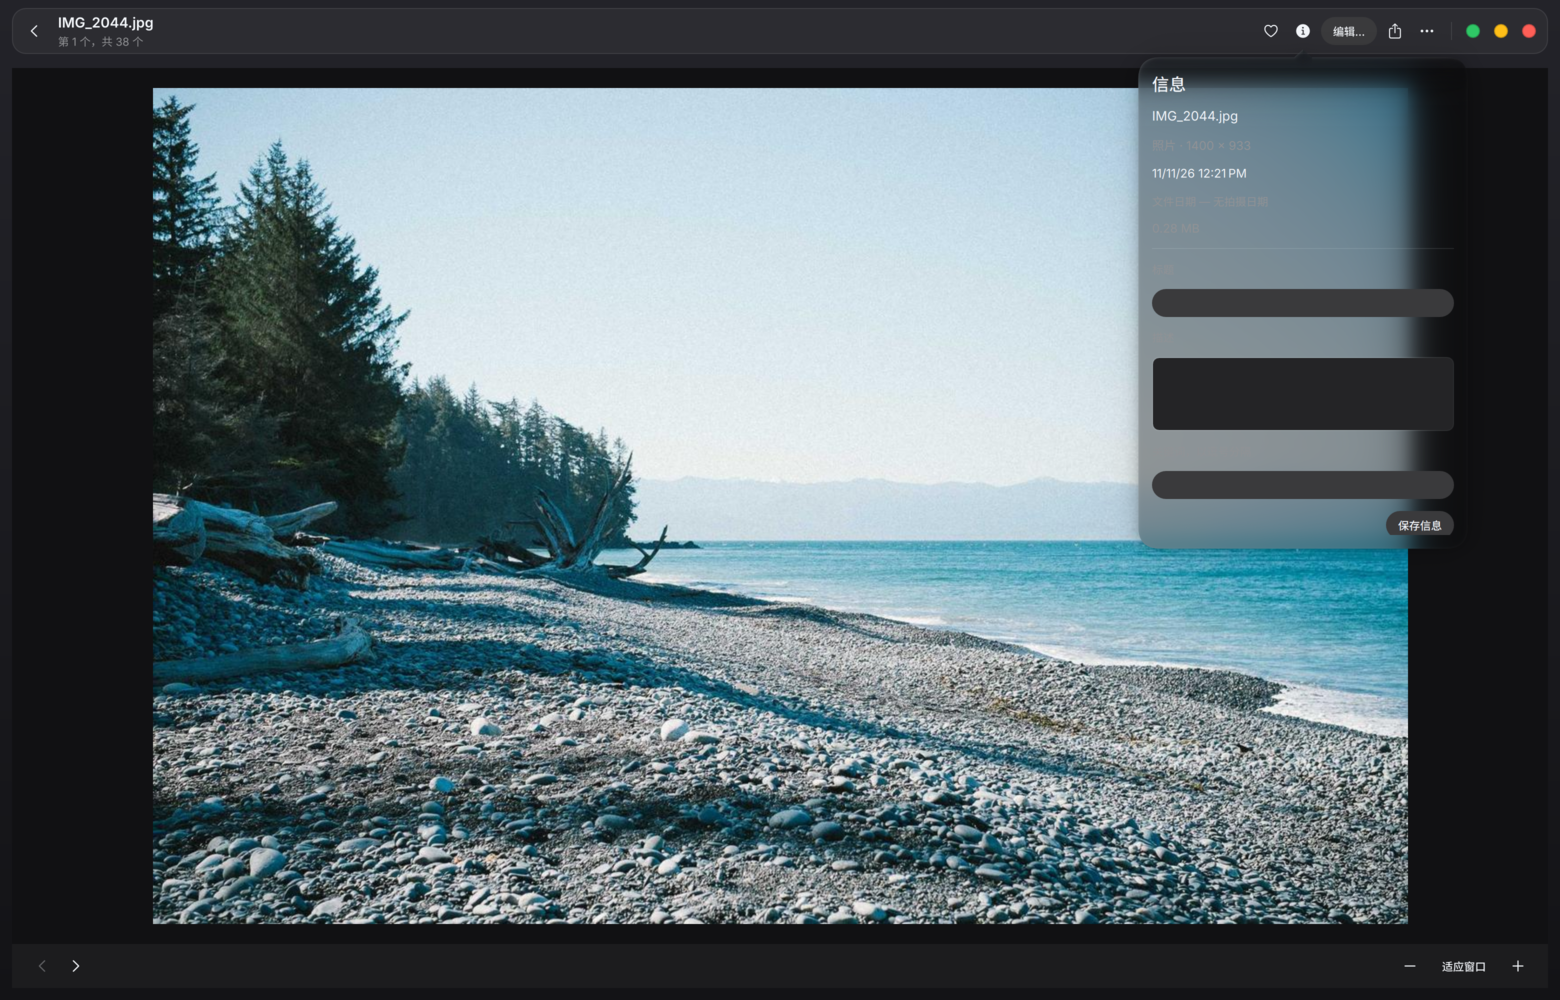
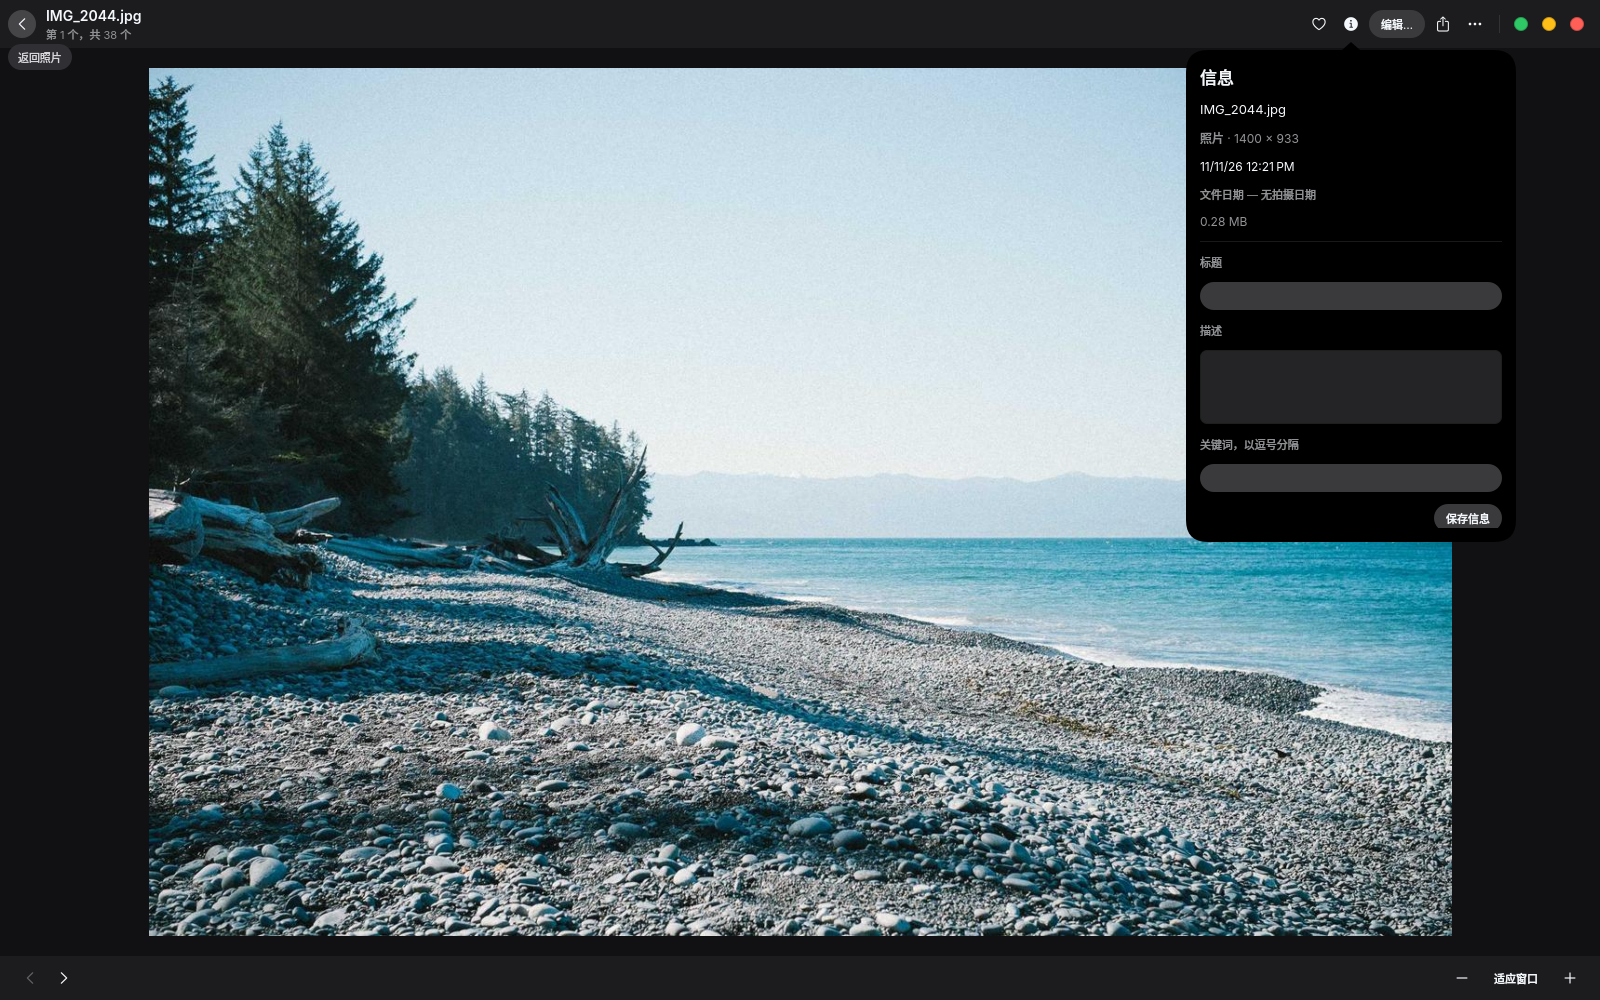
refactor(photos): adopt the flush shell used by NkMail and KMusic
The previous pass floated the sidebar as a rounded card inset from the window
edges. That is not the shell the other Kos apps use: NkMail and KMusic draw
their own chrome on a frameless window and run a flush sidebar column from the
top edge to the bottom, with a hairline rule separating it from the content.

- drop ApplicationWindow's header (and with it the full-width band that used to
  cut the sidebar off below the title bar)
- paint two flush planes in the scene: the sidebar surface full height, the
  content surface beside it, 1px rule between them
- draw a transparent shell header above them whose left segment belongs to the
  sidebar column, so the collection title sits inside the sidebar and the
  navigation buttons stay liquid controls floating over the content
- pull the title and navigation control back into the content row whenever the
  sidebar is hidden (viewer, or collapsed by hand)
- keep the library rows themselves background-less: the plane owns the surface

Screenshots regenerated offscreen (the session was locked, so the compositor
never exposed the window).

diff --git a/qml/Main.qml b/qml/Main.qml
@@ -13,15 +13,6 @@ KosAppWindow {
     width: preferences.windowWidth; height: preferences.windowHeight
     minimumWidth: 740; minimumHeight: 480
     title: viewing && currentPhoto.name ? currentPhoto.name + " — NkPhotos" : "NkPhotos"
-    // A slightly deepened, vertically graded backdrop gives the floating
-    // toolbar and sidebar something to lift off of. On a flat fill both panels
-    // read as part of one slab instead of lying on top of the window.
-    background: Rectangle {
-        gradient: Gradient {
-            GradientStop { position: 0.0; color: AppTheme.dark ? "#232329" : "#F8F8FB" }
-            GradientStop { position: 1.0; color: AppTheme.dark ? "#131316" : "#ECECF1" }
-        }
-    }
     // Presentation-only state is addressable by the native screenshot option.
     property bool viewing: false
     property bool infoVisible: false
@@ -40,8 +31,9 @@ KosAppWindow {
     // Both sit on top of the window background, so they need to lift off it
     // rather than disappear into it — hence the lightened fill plus a hairline
     // rim instead of a hard border.
-    readonly property color glassSurface: AppTheme.dark ? "#2C2C31" : "#FBFBFD"
-    readonly property color glassEdge: AppTheme.dark ? Qt.rgba(1, 1, 1, 0.12) : Qt.rgba(0, 0, 0, 0.06)
+    readonly property int sidebarWidth: width < 850 ? 174 : 194
+    readonly property int headerHeight: LiquidStyle.toolbarButtonHeight + 20
+    readonly property bool sidebarShown: preferences.sidebar && !viewing
     readonly property bool popupOpen: infoPopup.visible || addMenu.visible || viewMenu.visible || moreMenu.visible || appearanceMenu.visible || folderMenu.visible || collectionMenu.visible || actionMenu.visible || dialogs.anyOpen || memoryEditor.visible || memoryEditor.pickerOpen
     readonly property string collectionTitle: browserPage === "albums" ? qsTr("Albums") : browserPage === "memories" ? qsTr("Memories")
         : photoLibrary.mode === "favorites" ? qsTr("Favorites") : photoLibrary.mode === "recent" ? qsTr("Recent imports")
@@ -167,61 +159,41 @@ KosAppWindow {
     Shortcut { sequences: [StandardKey.SelectAll]; enabled: !root.viewing && root.browserPage === "library" && !root.popupOpen && !search.activeFocus; onActivated: { photoLibrary.dateView = "all"; photoLibrary.selectAll() } }
     Shortcut { sequence: "Delete"; enabled: !root.popupOpen && !search.activeFocus && (root.viewing || root.browserPage === "library") && root.frozenActionIds().length > 0 && !root.frozenActionIds().some(id => photoLibrary.entry(id).temporary); onActivated: dialogs.confirm((root.viewing ? !!root.currentPhoto.trashed : photoLibrary.mode === "trash") ? "permanent" : "trash",root.frozenActionIds()) }
 
-    header: Item {
-        height: LiquidStyle.toolbarButtonHeight + 32
-        // The toolbar is a floating liquid bar rather than a full-bleed strip:
-        // it insets from every window edge so the header reads as glass laid on
-        // top of the window, matching the sidebar below it.
-        Rectangle {
-            id: toolbarSurface
-            anchors.fill: parent
-            anchors.leftMargin: 12; anchors.rightMargin: 12
-            anchors.topMargin: 8; anchors.bottomMargin: 6
-            radius: 14
-            color: root.glassSurface
-            border.width: 1
-            border.color: root.glassEdge
-        }
-        MouseArea {
-            anchors.fill: parent; property point origin
-            onPressed: mouse => { origin = Qt.point(mouse.x,mouse.y) }
-            onPositionChanged: mouse => { if (pressed && (Math.abs(mouse.x-origin.x)>5 || Math.abs(mouse.y-origin.y)>5)) root.startSystemMove() }
-            onDoubleClicked: root.toggleMaximized()
-        }
-        RowLayout {
-            anchors.fill: toolbarSurface; anchors.leftMargin: 8; anchors.rightMargin: 8; spacing: 10
-            PhotoAction { objectName: "navigationButton"; label: root.viewing ? qsTr("Back to photos") : qsTr("Toggle sidebar"); iconName: root.viewing ? "chevron_left" : "sidebar_left"; onClicked: root.viewing ? root.returnToGallery() : preferences.sidebar = !preferences.sidebar }
-            ColumnLayout {
-                Layout.fillWidth: true; Layout.minimumWidth: 60; spacing: 2
-                Label { Layout.fillWidth: true; elide: Text.ElideMiddle; textFormat: Text.PlainText; text: root.viewing ? (root.memoryPlaying ? root.playbackMemory.name : root.currentPhoto.title || root.currentPhoto.name || qsTr("Item unavailable")) : root.collectionTitle; color: AppTheme.text; font.pixelSize: 14; font.weight: Font.DemiBold }
-                Label { visible: root.viewing; text: qsTr("%1 of %2").arg(root.memoryPlaying ? root.playbackIndex+1 : photoLibrary.selectedIndex+1).arg(root.memoryPlaying ? root.playbackItems.length : photoLibrary.count); color: AppTheme.mutedText; font.pixelSize: 11 }
-            }
-            LiquidTextField {
-                id: search; objectName: "filenameSearch"; visible: !root.viewing && root.browserPage === "library"
-                Layout.preferredWidth: root.width < 850 ? 142 : 200
-                materialForm: true; placeholderText: qsTr("Search photos"); text: photoLibrary.search; onTextEdited: photoLibrary.search = text
-                Accessible.name: qsTr("Search names, descriptions, keywords and dates")
-                onAccepted: { if (photoLibrary.selectedIndex < 0) photoLibrary.select(0); root.openSelected() }
-                Keys.onEscapePressed: { photoLibrary.search = ""; gallery.grid.forceActiveFocus() }
-            }
-            RowLayout {
-                spacing: 4
-                PhotoAction { id: addButton; objectName: "addButton"; visible: !root.viewing; label: qsTr("Add photos"); iconName: "plus"; onClicked: addMenu.openAtAnchor() }
-                PhotoAction { id: viewButton; objectName: "viewOptionsButton"; visible: !root.viewing && root.browserPage === "library"; label: qsTr("View options"); iconName: "slider_horizontal_3"; onClicked: viewMenu.openAtAnchor() }
-                PhotoAction { objectName: "favoriteButton"; visible: root.viewing; label: root.currentPhoto.favorite ? qsTr("Unfavorite") : qsTr("Favorite"); iconName: "heart"; iconFilled: !!root.currentPhoto.favorite; enabled: !!root.currentPhoto.name && !root.currentPhoto.trashed && !root.currentPhoto.temporary; onClicked: root.toggleCurrentFavorite() }
-                PhotoAction { id: infoButton; objectName: "infoButton"; visible: root.viewing; label: qsTr("Information"); iconName: "info_circle"; iconFilled: infoPopup.visible; onClicked: root.infoVisible = !root.infoVisible }
-                LiquidActionButton { objectName: "editButton"; visible: root.viewing && root.currentPhoto.mediaType === "photo"; enabled: root.currentPhoto.available && !root.currentPhoto.trashed && !editorBridge.busy; toolbarAction: true; materialForm: true; text: editorBridge.busy ? qsTr("Preparing…") : qsTr("Edit…"); Accessible.name: qsTr("Edit a copy in NkShot"); onClicked: dialogs.editItem(root.currentPhoto) }
-                PhotoAction { id: itemActionsButton; objectName: "itemActionsButton"; visible: root.viewing; label: qsTr("Photo actions"); iconName: "square_arrow_up"; onClicked: root.showActions(itemActionsButton) }
-                PhotoAction { id: moreButton; objectName: "moreButton"; label: qsTr("More actions"); iconName: "ellipsis"; onClicked: moreMenu.openAtAnchor() }
-            }
-            Rectangle { width: 1; height: 18; color: AppTheme.withAlpha(AppTheme.text,.10) }
-            KosWindowControls { targetWindow: root; actions: root.windowActions; maximizeMode: true; circleSize: 14; buttonWidth: 22; buttonHeight: 22; spacing: 6 }
-        }
-    }
+    // Window chrome is drawn inside the scene rather than through
+    // ApplicationWindow's header. The sidebar surface has to reach the top edge
+    // of the window, which a full-width header band with its own background
+    // cannot do — the same shell contract NkMail and KMusic use.
+    header: null
     Item {
         id: scene; anchors.fill: parent
+        // Flush planes: one continuous sidebar surface running the full height
+        // of the window, one content surface, a hairline rule between them.
+        // No insets and no rounded cards — the sidebar is part of the window,
+        // not a panel lying on top of it.
+        Rectangle {
+            id: sidebarPlane
+            objectName: "sidebarPlane"
+            anchors.left: parent.left; anchors.top: parent.top; anchors.bottom: parent.bottom
+            width: root.sidebarShown ? root.sidebarWidth : 0
+            // One step above the content surface so the column reads as a
+            // separate plane; the hairline rule alone is too subtle in dark.
+            color: AppTheme.dark ? "#2A2A2C" : AppTheme.contentSecondaryBackground
+        }
+        Rectangle {
+            objectName: "contentPlane"
+            anchors.left: sidebarPlane.right; anchors.right: parent.right
+            anchors.top: parent.top; anchors.bottom: parent.bottom
+            color: AppTheme.contentBackground
+            Rectangle {
+                anchors.left: parent.left; anchors.top: parent.top; anchors.bottom: parent.bottom
+                width: root.sidebarShown ? 1 : 0
+                color: AppTheme.withAlpha(AppTheme.text, .10)
+            }
+        }
         ColumnLayout {
             anchors.fill: parent; spacing: 0
+            // Leave the top band to the shell header drawn below.
+            anchors.topMargin: root.headerHeight
             Rectangle {
                 Layout.fillWidth: true; implicitHeight: Math.max(40,notice.implicitHeight+20)
                 visible: !!photoLibrary.message || !!editorBridge.message || !!shareBridge.message
@@ -242,21 +214,15 @@ KosAppWindow {
                 }
             }
             RowLayout {
-                Layout.fillWidth: true; Layout.fillHeight: true
-                // Float both the sidebar card and the content away from the
-                // window edges; the gap is what makes the sidebar read as a
-                // panel instead of a column running into the title bar.
-                Layout.leftMargin: 12; Layout.rightMargin: 12; Layout.bottomMargin: 12; Layout.topMargin: 8
-                spacing: 12
+                Layout.fillWidth: true; Layout.fillHeight: true; spacing: 0
                 Item {
                     id: sidebarSlot
-                    Layout.preferredWidth: root.width < 850 ? 174 : 194; Layout.fillHeight: true
-                    visible: preferences.sidebar && !root.viewing
+                    Layout.preferredWidth: root.sidebarWidth; Layout.fillHeight: true
+                    visible: root.sidebarShown
                     LibrarySidebar {
                         id: sidebarPanel
                         anchors.fill: parent
                         objectName: "librarySidebar"
-                        surfaceColor: root.glassSurface; edgeColor: root.glassEdge
                         browserPage: root.browserPage
                         onNavigate: (mode, folder) => root.showCollection(mode,folder)
                         onBrowse: page => root.browse(page)
@@ -266,6 +232,8 @@ KosAppWindow {
                 }
                 GalleryView {
                     id: gallery; objectName: "galleryView"; Layout.fillWidth: true; Layout.fillHeight: true; visible: !root.viewing && root.browserPage === "library"
+                    // Content breathes away from the sidebar rule and the window edge.
+                    Layout.leftMargin: 16; Layout.rightMargin: 16; Layout.topMargin: 8; Layout.bottomMargin: 8
                     tileSize: preferences.tileSize; showNames: preferences.showNames; cropThumbnails: preferences.cropThumbnails
                     onOpenSelected: root.openSelected()
                     onAddFolder: dialogs.addFolder()
@@ -278,6 +246,7 @@ KosAppWindow {
                 }
                 CollectionBrowser {
                     objectName: "collectionBrowser"; Layout.fillWidth: true; Layout.fillHeight: true; visible: !root.viewing && root.browserPage !== "library"
+                    Layout.leftMargin: 16; Layout.rightMargin: 16; Layout.topMargin: 8; Layout.bottomMargin: 8
                     memories: root.browserPage === "memories"
                     onOpenCollection: collection => memories ? root.showMemory(collection.id) : root.showAlbum(collection.id)
                     onCollectionActions: (collection,anchor) => root.showCollectionActions(collection,anchor,memories)
@@ -293,6 +262,92 @@ KosAppWindow {
                     onAdvance: { if (root.playbackIndex + 1 < root.playbackItems.length) root.playbackIndex++; else if (loop) root.playbackIndex = 0 }
                     onFinished: root.returnToGallery()
                 }
+            }
+        }
+        // Shell header: floats above both planes, but has no surface of its own.
+        // Its left segment sits inside the sidebar column, so the collection
+        // title belongs to the sidebar the way NkMail's "Mail" does.
+        Item {
+            id: shellHeader
+            objectName: "shellHeader"
+            anchors.left: parent.left; anchors.right: parent.right; anchors.top: parent.top
+            height: root.headerHeight
+            z: 5
+
+            // Drag surface first so every control declared later wins the click.
+            MouseArea {
+                anchors.fill: parent; property point origin
+                onPressed: mouse => { origin = Qt.point(mouse.x,mouse.y) }
+                onPositionChanged: mouse => { if (pressed && (Math.abs(mouse.x-origin.x)>5 || Math.abs(mouse.y-origin.y)>5)) root.startSystemMove() }
+                onDoubleClicked: root.toggleMaximized()
+            }
+
+            Item {
+                id: sidebarHeader
+                objectName: "sidebarHeader"
+                width: root.sidebarShown ? root.sidebarWidth : 0
+                height: parent.height
+                visible: width > 0
+                Label {
+                    anchors.left: parent.left; anchors.leftMargin: 16
+                    anchors.verticalCenter: parent.verticalCenter
+                    width: Math.max(0, parent.width - 16 - 8 - collapseButton.width - 8)
+                    elide: Text.ElideMiddle; textFormat: Text.PlainText
+                    text: root.collectionTitle
+                    color: AppTheme.text; font.pixelSize: 14; font.weight: Font.DemiBold
+                }
+                PhotoAction {
+                    id: collapseButton
+                    objectName: "sidebarToggleButton"
+                    anchors.right: parent.right; anchors.rightMargin: 6
+                    anchors.verticalCenter: parent.verticalCenter
+                    label: qsTr("Hide sidebar"); iconName: "sidebar_left"
+                    onClicked: preferences.sidebar = false
+                }
+            }
+
+            RowLayout {
+                anchors.left: sidebarHeader.right; anchors.right: parent.right
+                anchors.top: parent.top; anchors.bottom: parent.bottom
+                anchors.leftMargin: root.sidebarShown ? 12 : 8
+                anchors.rightMargin: 12
+                spacing: 10
+                // With the sidebar hidden (viewer, or collapsed by hand) the
+                // navigation control and the title move back into this row.
+                PhotoAction {
+                    objectName: "navigationButton"
+                    visible: !root.sidebarShown
+                    label: root.viewing ? qsTr("Back to photos") : qsTr("Show sidebar")
+                    iconName: root.viewing ? "chevron_left" : "sidebar_left"
+                    onClicked: root.viewing ? root.returnToGallery() : preferences.sidebar = true
+                }
+                ColumnLayout {
+                    visible: !root.sidebarShown
+                    Layout.fillWidth: true; Layout.minimumWidth: 60; spacing: 2
+                    Label { Layout.fillWidth: true; elide: Text.ElideMiddle; textFormat: Text.PlainText; text: root.viewing ? (root.memoryPlaying ? root.playbackMemory.name : root.currentPhoto.title || root.currentPhoto.name || qsTr("Item unavailable")) : root.collectionTitle; color: AppTheme.text; font.pixelSize: 14; font.weight: Font.DemiBold }
+                    Label { visible: root.viewing; text: qsTr("%1 of %2").arg(root.memoryPlaying ? root.playbackIndex+1 : photoLibrary.selectedIndex+1).arg(root.memoryPlaying ? root.playbackItems.length : photoLibrary.count); color: AppTheme.mutedText; font.pixelSize: 11 }
+                }
+                Item { Layout.fillWidth: true; visible: root.sidebarShown }
+                LiquidTextField {
+                    id: search; objectName: "filenameSearch"; visible: !root.viewing && root.browserPage === "library"
+                    Layout.preferredWidth: root.width < 850 ? 142 : 200
+                    materialForm: true; placeholderText: qsTr("Search photos"); text: photoLibrary.search; onTextEdited: photoLibrary.search = text
+                    Accessible.name: qsTr("Search names, descriptions, keywords and dates")
+                    onAccepted: { if (photoLibrary.selectedIndex < 0) photoLibrary.select(0); root.openSelected() }
+                    Keys.onEscapePressed: { photoLibrary.search = ""; gallery.grid.forceActiveFocus() }
+                }
+                RowLayout {
+                    spacing: 4
+                    PhotoAction { id: addButton; objectName: "addButton"; visible: !root.viewing; label: qsTr("Add photos"); iconName: "plus"; onClicked: addMenu.openAtAnchor() }
+                    PhotoAction { id: viewButton; objectName: "viewOptionsButton"; visible: !root.viewing && root.browserPage === "library"; label: qsTr("View options"); iconName: "slider_horizontal_3"; onClicked: viewMenu.openAtAnchor() }
+                    PhotoAction { objectName: "favoriteButton"; visible: root.viewing; label: root.currentPhoto.favorite ? qsTr("Unfavorite") : qsTr("Favorite"); iconName: "heart"; iconFilled: !!root.currentPhoto.favorite; enabled: !!root.currentPhoto.name && !root.currentPhoto.trashed && !root.currentPhoto.temporary; onClicked: root.toggleCurrentFavorite() }
+                    PhotoAction { id: infoButton; objectName: "infoButton"; visible: root.viewing; label: qsTr("Information"); iconName: "info_circle"; iconFilled: root.infoVisible; onClicked: root.infoVisible = !root.infoVisible }
+                    LiquidActionButton { objectName: "editButton"; visible: root.viewing && root.currentPhoto.mediaType === "photo"; enabled: root.currentPhoto.available && !root.currentPhoto.trashed && !editorBridge.busy; toolbarAction: true; materialForm: true; text: editorBridge.busy ? qsTr("Preparing…") : qsTr("Edit…"); Accessible.name: qsTr("Edit a copy in NkShot"); onClicked: dialogs.editItem(root.currentPhoto) }
+                    PhotoAction { id: itemActionsButton; objectName: "itemActionsButton"; visible: root.viewing; label: qsTr("Photo actions"); iconName: "square_arrow_up"; onClicked: root.showActions(itemActionsButton) }
+                    PhotoAction { id: moreButton; objectName: "moreButton"; label: qsTr("More actions"); iconName: "ellipsis"; onClicked: moreMenu.openAtAnchor() }
+                }
+                Rectangle { width: 1; height: 18; color: AppTheme.withAlpha(AppTheme.text,.10) }
+                KosWindowControls { targetWindow: root; actions: root.windowActions; maximizeMode: true; circleSize: 14; buttonWidth: 22; buttonHeight: 22; spacing: 6 }
             }
         }
         DropArea { anchors.fill: parent; onDropped: drop => { if (drop.hasUrls) { photoLibrary.openFiles(drop.urls); drop.acceptProposedAction() } } }

diff --git a/qml/LibrarySidebar.qml b/qml/LibrarySidebar.qml
@@ -7,28 +7,22 @@ import Kos.Ui
 Rectangle {
     id: root
     property string browserPage: "library"
-    property color surfaceColor: AppTheme.contentSecondaryBackground
-    property color edgeColor: AppTheme.withAlpha(AppTheme.text, .07)
     signal navigate(string mode, url folder)
     signal browse(string page)
     signal addFolder()
     signal folderActions(var folder, Item anchor)
-    color: surfaceColor
-    // Floating card, not a full-height column: rounded corners plus a hairline
-    // rim keep it readable over the window background.
-    radius: AppTheme.mediumRadius
-    border.width: 1
-    border.color: edgeColor
-    clip: true
+    // The sidebar column is a flush surface owned by the shell (see
+    // Main.qml's sidebarPlane); this control only carries the rows.
+    color: "transparent"
     ScrollView {
         anchors.fill: parent; anchors.margins: 10
         // ScrollView paints an opaque palette-window background by default,
-        // which would cover the card surface declared on the root rectangle.
+        // which would cover the surface underneath.
         background: null
         clip: true; contentWidth: availableWidth
         ColumnLayout {
             width: parent.width; spacing: 2
-            Label { text: qsTr("Library"); color: AppTheme.mutedText; font.pixelSize: 11; Layout.leftMargin: 12; Layout.topMargin: 4; Layout.bottomMargin: 8 }
+            Label { text: qsTr("Library"); color: AppTheme.mutedText; font.pixelSize: 11; Layout.leftMargin: 12; Layout.topMargin: 8; Layout.bottomMargin: 8 }
             Repeater {
                 model: [
                     {key:"all",title:qsTr("All photos"),symbol:"photo_on_rectangle"},
